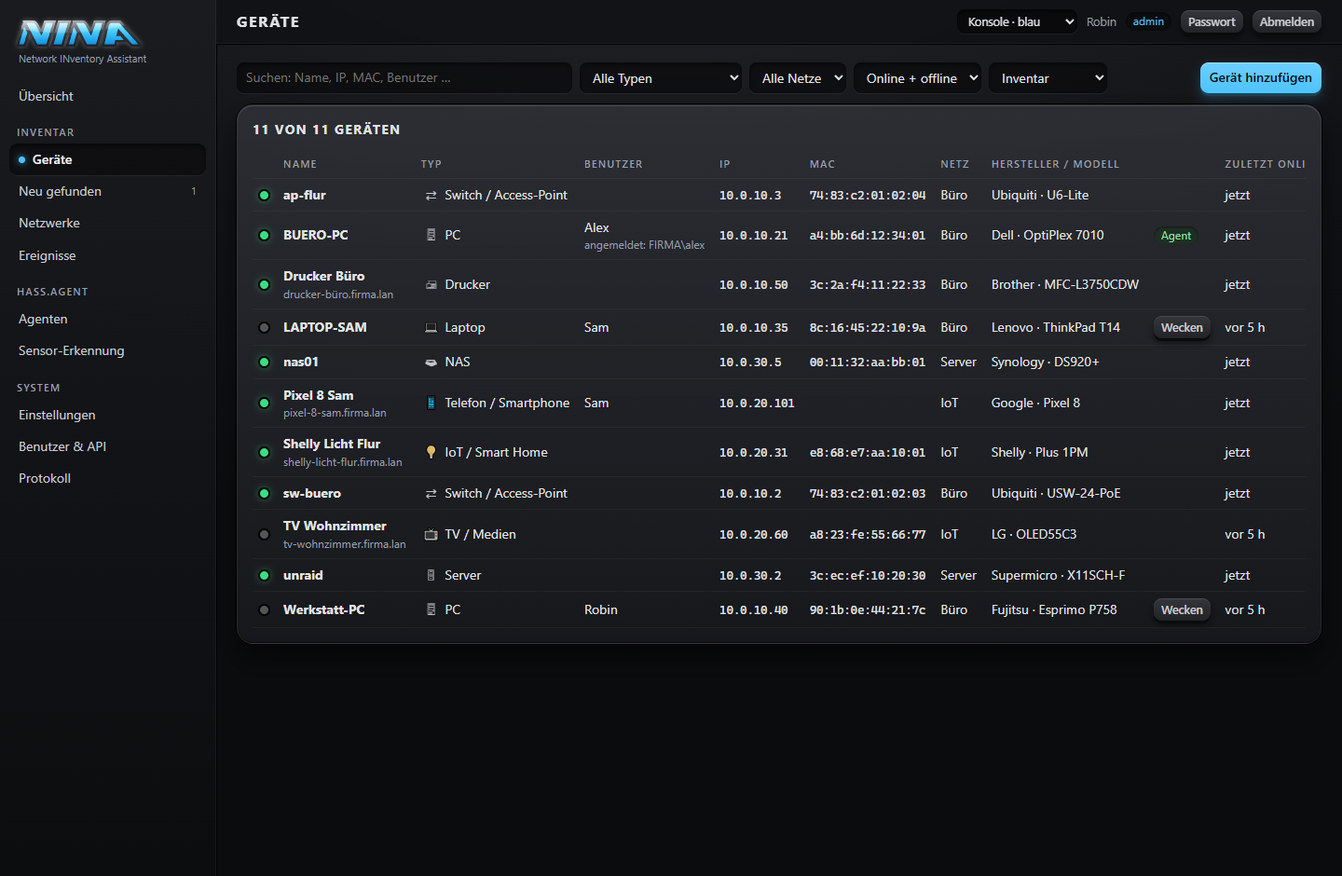
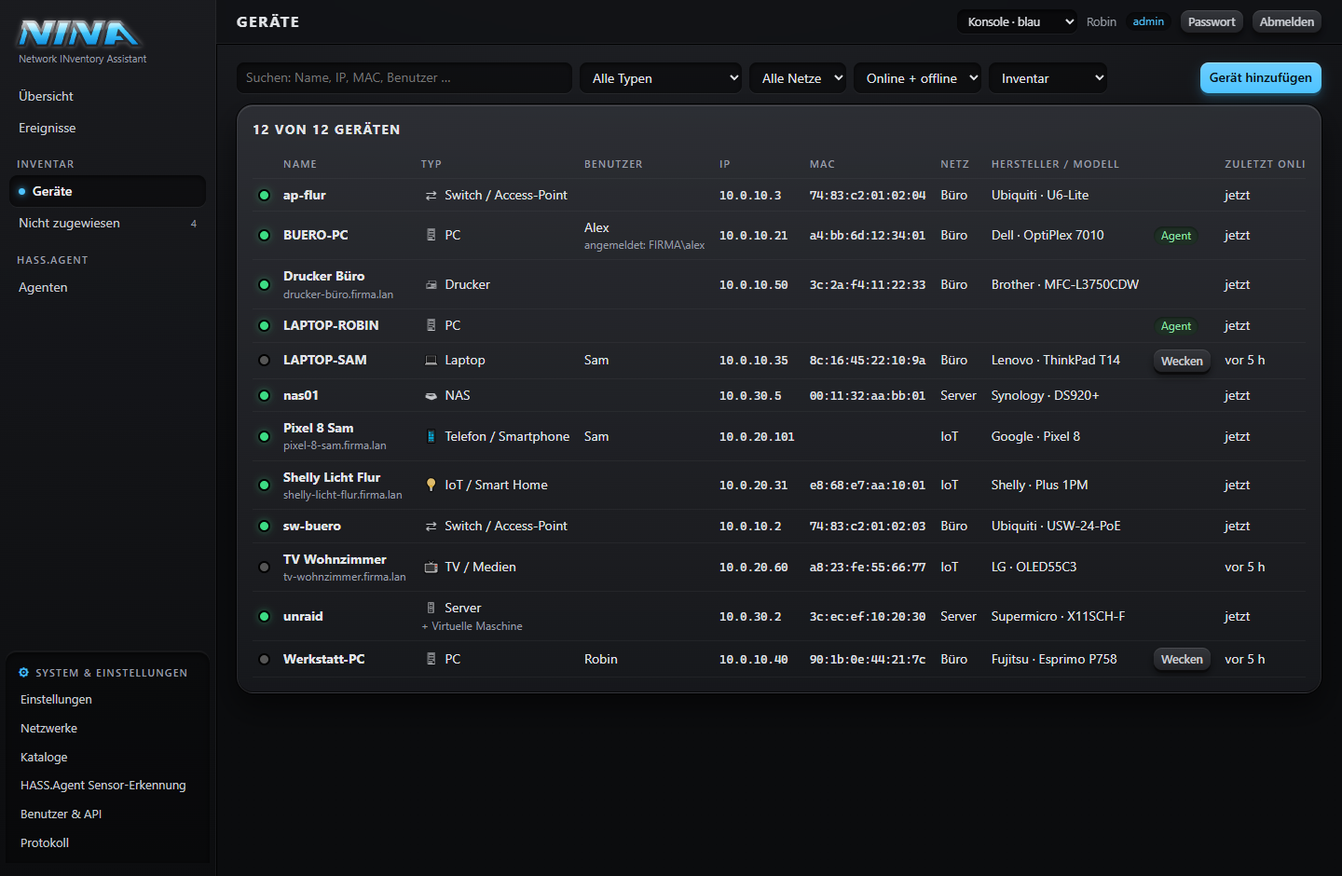
1.4.0: menu regrouped (inventory: devices + unassigned), unassigned list of all findings incl. agents without device, system section set apart

diff --git a/app/web/inventar.js b/app/web/inventar.js
@@ -1,4 +1,4 @@
-/* NINA – Ansichten: Übersicht, Geräte, Gerät, Neu gefunden, Netzwerke, Ereignisse */
+/* NINA – Ansichten: Übersicht, Geräte, Gerät, Nicht zugewiesen, Netzwerke, Ereignisse */
 "use strict";
 
 const typSymbol = t => h("span", { class: "typ-symbol", title: typName(t) }, (META.typen.find(x => x[0] === t) || [])[2] || "◇");
@@ -18,7 +18,7 @@ ANSICHT.uebersicht = { titel: "Übersicht", async zeigen(main) {
       h("div", { class: "kacheln" },
         kachel(u.geraete, "Geräte im Inventar", "#geraete"),
         kachel(u.online, "davon online", "#geraete?filter=online", "ok"),
-        kachel(u.neu, "neu gefunden", "#neu", u.neu ? "warn" : null),
+        kachel(u.neu + (u.agenten_frei || 0), "nicht zugewiesen", "#neu", u.neu + (u.agenten_frei || 0) ? "warn" : null),
         kachel(`${u.agenten_online}/${u.agenten}`, "HASS.Agents online", "#agenten"),
         kachel(u.netze.length, "Netzwerke", "#netzwerke")),
       h("div", { class: "zwei" },
@@ -240,27 +240,56 @@ async function schnittstelleDialog(g, x = null) {
   if (await dialog(x ? "Schnittstelle bearbeiten" : "Schnittstelle hinzufügen", f, kn)) zeige();
 }
 
-// ------------------------------------------------------------------ Neu gefunden
-ANSICHT.neu = { titel: "Neu gefunden", async zeigen(main) {
+// ------------------------------------------------------------------ Nicht zugewiesen
+const QUELLE_NAMEN = { scan: "Netzwerk-Scan", opnsense: "OPNsense", agent: "HASS.Agent", manuell: "von Hand" };
+let QUELLE_FILTER = "";
+ANSICHT.neu = { titel: "Nicht zugewiesen", async zeigen(main) {
   const laden = async () => {
-    const liste = (await api("GET", "/api/geraete?status=neu")).geraete;
-    const alleG = (await api("GET", "/api/geraete?status=aktiv")).geraete;
-    ZAHLEN.neu = liste.length;
+    const [n, a, akt] = await Promise.all([api("GET", "/api/geraete?status=neu"), api("GET", "/api/agenten"), api("GET", "/api/geraete?status=aktiv")]);
+    // Geräte-Funde (Scan, OPNsense, Agent mit eigenem Fund) + Agenten ganz ohne Gerät
+    const zeilen = [
+      ...n.geraete.map(g => ({ art: "geraet", g, quelle: g.agent ? "agent" : (g.quelle || "scan") })),
+      ...a.agenten.filter(x => !x.geraet_id).map(x => ({ art: "agent", a: x, quelle: "agent" })),
+    ];
+    ZAHLEN.neu = zeilen.length;
+    const anzahl = q => zeilen.filter(z => z.quelle === q).length;
+    const liste = zeilen.filter(z => !QUELLE_FILTER || z.quelle === QUELLE_FILTER);
+    const uebernehmen = async z => {
+      let g = z.g;
+      if (z.art === "agent") {      // Agent ohne Gerät: erst einen Fund anlegen, dann wie gewohnt übernehmen
+        await versuch(() => api("POST", `/api/agenten/${z.a.id}/verknuepfen`, { neu: true }));
+        const frisch = await api("GET", "/api/agenten");
+        const gid = (frisch.agenten.find(x => x.id === z.a.id) || {}).geraet_id;
+        if (!gid) return;
+        g = await api("GET", `/api/geraete/${gid}`);
+      }
+      if (await uebernehmenDialog(g)) laden(); else laden();
+    };
     leeren(main,
-      h("p", { class: "leise" }, "Vom Scan, der OPNsense oder einem HASS.Agent gefundene Geräte – sie kommen nie automatisch ins Inventar. Beim Übernehmen lassen sich doppelte Funde (z. B. Scan + Agent desselben PCs) gleich zusammenführen. Ignorierte tauchen nicht wieder auf."),
-      h("div", { class: "karte" }, h("h2", {}, `${liste.length} neue Geräte`, liste.length && darf("operator") ? h("span", { class: "rechts" },
-        h("button", { class: "klein", onclick: async () => { if (!(await bestaetigen(`Alle ${liste.length} ignorieren?`, "Alle ignorieren"))) return;
-          for (const g of liste) await api("POST", `/api/geraete/${g.id}/status`, { status: "ignoriert" }); laden(); } }, "Alle ignorieren")) : null),
+      h("p", { class: "leise" }, "Alles, was Netzwerk-Scan, OPNsense oder ein HASS.Agent gefunden hat und noch nicht im Inventar ist. Ins Inventar kommt ein Fund nur über „Übernehmen“ – dabei lassen sich doppelte Funde (z. B. Scan + Agent desselben PCs) gleich zusammenführen. Ignorierte tauchen nicht wieder auf."),
+      h("div", { class: "leiste" }, h("div", { class: "tabs" }, [["", `Alle (${zeilen.length})`], ["scan", `Netzwerk-Scan (${anzahl("scan")})`],
+        ["opnsense", `OPNsense (${anzahl("opnsense")})`], ["agent", `HASS.Agent (${anzahl("agent")})`]].map(([k, t]) =>
+        h("button", { class: k === QUELLE_FILTER ? "an" : "", onclick: () => { QUELLE_FILTER = k; laden(); } }, t))),
+        h("span", { class: "rechts" }, h("a", { href: "#einstellungen?tab=zeitplan" }, h("button", { class: "klein" }, "Zeitplan der Suche")))),
+      h("div", { class: "karte" }, h("h2", {}, `${liste.length} nicht zugewiesen`, liste.some(z => z.art === "geraet") && darf("operator") ? h("span", { class: "rechts" },
+        h("button", { class: "klein", onclick: async () => { const gs = liste.filter(z => z.art === "geraet"); if (!(await bestaetigen(`Alle ${gs.length} angezeigten Funde ignorieren?`, "Ignorieren"))) return;
+          for (const z of gs) await api("POST", `/api/geraete/${z.g.id}/status`, { status: "ignoriert" }); laden(); } }, "Alle ignorieren")) : null),
         tabelle([
-          { t: "", w: g => punkt(g.online ? "ok" : "") },
-          { t: "Name", w: g => h("b", {}, g.name) }, { t: "Vermutung", w: g => h("span", {}, typSymbol(g.typ), " ", g.typ_name) },
-          { t: "IP", w: g => h("span", { class: "mono" }, g.ip) }, { t: "MAC", w: g => h("span", { class: "mono" }, g.mac) },
-          { t: "Hersteller", w: g => g.hersteller }, { t: "Netz", w: g => g.netzwerk }, { t: "Quelle", w: g => g.agent ? "HASS.Agent" : g.quelle },
-          { t: "", w: g => darf("operator") ? h("div", { class: "knopfreihe" },
-            h("button", { class: "klein p", onclick: () => uebernehmenDialog(g).then(r => r && laden()) }, "Übernehmen"),
-            h("button", { class: "klein", onclick: () => zusammenDialog(g, alleG).then(r => r && laden()) }, "Zusammenführen"),
-            h("button", { class: "klein", onclick: async () => { await api("POST", `/api/geraete/${g.id}/status`, { status: "ignoriert" }); laden(); } }, "Ignorieren")) : null },
-        ], liste, { leer: "Nichts Neues – alles im Inventar.", klick: g => (location.hash = `#geraet?id=${g.id}`) })));
+          { t: "", w: z => punkt((z.g || z.a).online ? "ok" : "") },
+          { t: "Name", w: z => h("div", { class: "zwei-zeilen" }, h("b", {}, z.art === "agent" ? z.a.name : z.g.name),
+              z.art === "agent" ? h("small", {}, `HASS.Agent ${z.a.version || ""} · ${z.a.modell || ""}`) : z.g.hostname && z.g.hostname.split(".")[0].toLowerCase() !== z.g.name.toLowerCase() ? h("small", {}, z.g.hostname) : null) },
+          { t: "Vermutung", w: z => z.art === "agent" ? h("span", {}, typSymbol("pc"), " ", typName("pc")) : h("span", {}, typSymbol(z.g.typ), " ", z.g.typ_name) },
+          { t: "IP", w: z => z.g ? h("span", { class: "mono" }, z.g.ip) : "" }, { t: "MAC", w: z => z.g ? h("span", { class: "mono" }, z.g.mac) : "" },
+          { t: "Hersteller", w: z => z.g ? z.g.hersteller : "" }, { t: "Netz", w: z => z.g ? z.g.netzwerk : "" },
+          { t: "Quelle", w: z => marke(QUELLE_NAMEN[z.quelle] || z.quelle, z.quelle === "agent" ? "akz" : "") },
+          { t: "Gefunden", w: z => vorZeit(z.g ? z.g.geaendert : z.a.erstellt) },
+          { t: "", w: z => darf("operator") ? h("div", { class: "knopfreihe" },
+            h("button", { class: "klein p", onclick: () => uebernehmen(z) }, "Übernehmen"),
+            z.g ? h("button", { class: "klein", onclick: () => zusammenDialog(z.g, akt.geraete).then(r => r && laden()) }, "Zu Gerät hinzufügen") : null,
+            z.g ? h("button", { class: "klein", onclick: async () => { await api("POST", `/api/geraete/${z.g.id}/status`, { status: "ignoriert" }); laden(); } }, "Ignorieren")
+              : darf("admin") ? h("button", { class: "klein gefahr", onclick: async () => { if (await bestaetigen(`Agent „${z.a.name}“ entfernen? Meldet er sich wieder, taucht er hier neu auf.`, "Entfernen")) { await api("DELETE", `/api/agenten/${z.a.id}`); laden(); } } }, "Entfernen") : null) : null },
+        ], liste, { leer: zeilen.length ? "Für diese Quelle gibt es nichts Neues." : "Nichts Neues – alles im Inventar.",
+          klick: z => z.g && (location.hash = `#geraet?id=${z.g.id}`) })));
   };
   await laden();
   alle(30, laden);
@@ -282,7 +311,7 @@ async function uebernehmenDialog(g) {
         ? h("input", { type: "checkbox", checked: wahl.has(x.id), disabled: !!ziel, onchange: e => { e.target.checked ? wahl.add(x.id) : wahl.delete(x.id); } })
         : h("input", { type: "radio", name: "ziel", checked: ziel === x.id, title: "stattdessen in dieses Inventar-Gerät übernehmen",
             onclick: e => { ziel = ziel === x.id ? null : x.id; e.target.checked = ziel === x.id; zeichne(); } }) },
-    { t: "Gerät", w: x => h("div", { class: "zwei-zeilen" }, h("b", {}, x.name), h("small", {}, x.status === "neu" ? "neu gefunden · " + quelle(x) : "im Inventar")) },
+    { t: "Gerät", w: x => h("div", { class: "zwei-zeilen" }, h("b", {}, x.name), h("small", {}, x.status === "neu" ? "nicht zugewiesen · " + quelle(x) : "im Inventar")) },
     { t: "Typ", w: x => h("span", {}, typSymbol(x.typ), " ", x.typ_name) },
     { t: "IP / MAC", w: x => h("div", { class: "zwei-zeilen mono" }, x.ip, h("small", {}, x.mac)) },
     { t: "Passt wegen", w: x => x.gruende.length ? x.gruende.map(r => marke(r, "ok")) : h("span", { class: "leise" }, "–") },
@@ -307,7 +336,7 @@ async function uebernehmenDialog(g) {
 async function zusammenDialog(g, alleG) {
   const f = h("div", {}, h("p", { class: "leise" }, `Die Schnittstellen von „${g.name}“ (${g.ip} ${g.mac}) wandern zum gewählten Gerät, „${g.name}“ wird entfernt.`),
     feld("Ziel-Gerät", auswahl("ziel", alleG.map(x => [x.id, `${x.name}${x.ip ? " – " + x.ip : ""}`]), "")));
-  return dialog("Zusammenführen", f, [["Abbrechen", null], ["Zusammenführen", () => versuch(() => api("POST", `/api/geraete/${g.id}/zusammenfuehren`, lesenForm(f)), "Zusammengeführt"), "p"]]);
+  return dialog("Zu einem Inventar-Gerät hinzufügen", f, [["Abbrechen", null], ["Zusammenführen", () => versuch(() => api("POST", `/api/geraete/${g.id}/zusammenfuehren`, lesenForm(f)), "Zusammengeführt"), "p"]]);
 }
 
 // ------------------------------------------------------------------ Netzwerke

diff --git a/app/web/verwaltung.js b/app/web/verwaltung.js
@@ -5,26 +5,28 @@
 ANSICHT.agenten = { titel: "HASS.Agent", async zeigen(main) {
   const laden = async () => {
     const d = await api("GET", "/api/agenten");
+    const offen = d.agenten.filter(a => !a.geraet_id || a.geraet_status !== "aktiv").length;
+    d.agenten = d.agenten.filter(a => a.geraet_id && a.geraet_status === "aktiv");   // nicht zugewiesene stehen unter Inventar › Nicht zugewiesen
     const m = d.mqtt;
     leeren(main,
       h("div", { class: "karte" }, h("h2", {}, "MQTT-Verbindung", m.verbunden ? marke("verbunden", "ok") : m.aktiv ? marke("getrennt", "bad") : marke("aus"),
         h("span", { class: "rechts" }, darf("admin") ? h("a", { href: "#einstellungen?tab=mqtt" }, h("button", { class: "klein" }, "Einstellungen")) : null)),
         h("p", { class: "leise", style: { margin: 0 } }, m.aktiv ? `${m.host} · ${m.status} · ${m.nachrichten} Nachrichten empfangen`
           : "Noch nicht eingerichtet. HASS.Agent schickt seine Sensoren und Befehle an den MQTT-Broker von Home Assistant (z. B. das Mosquitto-Add-on). NINA hört dort mit – unter Einstellungen › MQTT den Broker eintragen.")),
-      h("div", { class: "karte" }, h("h2", {}, `${d.agenten.length} Agenten`),
+      offen ? h("div", { class: "karte" }, h("p", { style: { margin: 0 } }, `${offen} ${offen === 1 ? "Agent ist" : "Agenten sind"} noch keinem Gerät im Inventar zugewiesen – `,
+        h("a", { href: "#neu" }, "unter „Nicht zugewiesen“ übernehmen"), ".")) : null,
+      h("div", { class: "karte" }, h("h2", {}, `${d.agenten.length} zugewiesene Agenten`),
         tabelle([
           { t: "", w: a => punkt(a.online ? "ok" : "") },
           { t: "Name", w: a => h("div", { class: "zwei-zeilen" }, h("b", {}, a.name), h("small", {}, a.kennung)) },
           { t: "Version", w: a => a.version }, { t: "System", w: a => a.modell },
           { t: "Werte / Befehle", w: a => `${a.werte} / ${a.befehle}`, z: 1 },
-          { t: "Gerät", w: a => a.geraet_id ? h("span", {}, h("a", { href: `#geraet?id=${a.geraet_id}` }, a.geraet), " ", a.geraet_status === "neu" ? marke("neu", "warn") : null)
-              : marke("nicht verknüpft", "warn") },
+          { t: "Gerät", w: a => h("a", { href: `#geraet?id=${a.geraet_id}` }, a.geraet) },
           { t: "Zuletzt", w: a => vorZeit(a.zuletzt) },
           { t: "", w: a => darf("admin") ? h("div", { class: "knopfreihe" },
-            a.geraet_status === "neu" ? h("button", { class: "klein p", onclick: async () => { const g = await api("GET", `/api/geraete/${a.geraet_id}`); if (await uebernehmenDialog(g)) laden(); } }, "Übernehmen") : null,
             h("button", { class: "klein", onclick: () => verknuepfenDialog(a).then(r => r && laden()) }, "Verknüpfen"),
             h("button", { class: "klein gefahr", onclick: async () => { if (await bestaetigen(`Agent „${a.name}“ entfernen? Meldet er sich wieder, taucht er neu auf.`, "Entfernen")) { await versuch(() => api("DELETE", `/api/agenten/${a.id}`), "Entfernt"); laden(); } } }, "Entfernen")) : null },
-        ], d.agenten, { leer: "Noch kein HASS.Agent gefunden.", klick: a => a.geraet_id && (location.hash = `#geraet?id=${a.geraet_id}`) })));
+        ], d.agenten, { leer: offen ? "Noch kein Agent zugewiesen." : "Noch kein HASS.Agent gefunden.", klick: a => a.geraet_id && (location.hash = `#geraet?id=${a.geraet_id}`) })));
   };
   await laden();
   alle(15, laden);
@@ -40,7 +42,7 @@ async function verknuepfenDialog(a) {
 }
 
 // ------------------------------------------------------------------ Sensor-Erkennung
-ANSICHT.muster = { titel: "Sensor-Erkennung", async zeigen(main) {
+ANSICHT.muster = { titel: "HASS.Agent Sensor-Erkennung", async zeigen(main) {
   const [d] = await Promise.all([api("GET", "/api/muster"), mdiLaden().catch(() => {})]);
   const ziel = new URLSearchParams(location.hash.split("?")[1] || "").get("ziel") || "sensor";
   const liste = d.muster.filter(m => m.ziel === ziel);
@@ -117,11 +119,11 @@ function allgemeinTab(a) {
   const f = h("div", {},
     h("div", { class: "raster" },
       feld("Name dieser Installation", eingabe("name", a.name), "erscheint in Home Assistant"),
-      feld("Neu gefundene Geräte", auswahl("neue_geraete", [["pruefen", "Unter „Neu gefunden“ zum Prüfen"], ["nein", "Nicht anlegen (nur Bekannte aktualisieren)"]], a.neue_geraete), "Ins Inventar kommt ein Gerät nur, wenn es übernommen wird"),
+      feld("Neu gefundene Geräte", auswahl("neue_geraete", [["pruefen", "Unter „Nicht zugewiesen“ aufführen"], ["nein", "Nicht anlegen (nur Bekannte aktualisieren)"]], a.neue_geraete), "Ins Inventar kommt ein Gerät nur, wenn es übernommen wird"),
       feld("Überwachte Geräte anpingen alle … s", eingabe("ueberwachen_intervall", a.ueberwachen_intervall, { type: "number", min: 15 })),
       feld("WoL-Port", auswahl("wol_port", [["9", "9 (Standard)"], ["7", "7"]], a.wol_port)),
       feld("Ereignisse aufheben (Tage)", eingabe("ereignisse_tage", a.ereignisse_tage, { type: "number", min: 7 }))),
-    haken("Neue HASS.Agents unter „Neu gefunden“ aufführen", a.agent_geraete_anlegen, "Sonst nur verknüpfen, wenn ein Gerät mit gleichem Namen im Inventar ist", "agent_geraete_anlegen").el);
+    haken("Für neue HASS.Agents gleich einen Fund anlegen", a.agent_geraete_anlegen, "Sonst steht der Agent ohne Gerät unter „Nicht zugewiesen“ (Übernehmen legt es dann an); mit gleichnamigem Inventar-Gerät wird immer verknüpft", "agent_geraete_anlegen").el);
   return h("div", {}, h("div", { class: "karte" }, h("h2", {}, "Allgemein"), f),
     h("div", { class: "karte" }, h("h2", {}, "Zusatzfelder für Geräte"), h("p", { class: "leise klein-t" }, "Eigene Angaben je Gerät (z. B. Garantie bis, Kostenstelle, Lieferant) – ohne Datenbank-Umbau, gespeichert im Feld „extra“ und auch an Home Assistant übergeben."), zf),
     h("div", { class: "leiste" }, h("span", { class: "rechts" }, h("button", { class: "p", onclick: async () => {
@@ -309,7 +311,7 @@ function zeitplanTab() {
         "Ping/nmap-Scan der eingetragenen Netze (je Netz eigenes Intervall). Das Zeitfenster gilt für alle Netze."),
       karte("opnsense", ops, "ARP-Tabelle und DHCP-Leases der OPNsense über alle VLANs – findet auch Geräte in fremden Netzen samt MAC."),
       karte("agent", h("div", {}, ag, agExtra), "HASS.Agent-Werte kommen laufend per MQTT. Der Abgleich verknüpft Agenten mit Geräten, übernimmt gemeldete Adressen und setzt stumme Agenten offline."),
-      h("div", { class: "leiste" }, h("span", { class: "leise klein-t" }, "Neue Funde aus allen Läufen landen unter „Neu gefunden“."),
+      h("div", { class: "leiste" }, h("span", { class: "leise klein-t" }, "Neue Funde aus allen Läufen landen unter Inventar › Nicht zugewiesen."),
         h("span", { class: "rechts" }, darf("admin") ? h("button", { class: "p", onclick: async () => {
           await versuch(() => api("POST", "/api/zeitplan", { scan: scan.werte(), opnsense: ops.werte(), agent: { ...ag.werte(), ...lesenForm(agExtra) }, netze: [...netzWerte.values()] }), "Zeitplan gespeichert");
           laden();

diff --git a/app/web/app.js b/app/web/app.js
@@ -150,12 +150,13 @@ function kopieren(text) {
 
 // ------------------------------------------------------------------ Navigation / Rahmen
 const NAVI = [
-  ["", [["uebersicht", "Übersicht"]]],
-  ["Inventar", [["geraete", "Geräte"], ["neu", "Neu gefunden", null, null, "neu"], ["netzwerke", "Netzwerke"], ["kataloge", "Kataloge"], ["ereignisse", "Ereignisse"]]],
-  ["HASS.Agent", [["agenten", "Agenten"], ["muster", "Sensor-Erkennung"]]],
-  ["System", [["einstellungen", "Einstellungen", null, "admin"], ["benutzer", "Benutzer & API", null, "admin"],
-              ["protokoll", "Protokoll", null, "operator"]]],
+  ["", [["uebersicht", "Übersicht"], ["ereignisse", "Ereignisse"]]],
+  ["Inventar", [["geraete", "Geräte"], ["neu", "Nicht zugewiesen", null, null, "neu"]]],
+  ["HASS.Agent", [["agenten", "Agenten"]]],
 ];
+// abgesetzter Einstellungsbereich unten in der Seitenleiste
+const NAVI_SYSTEM = [["einstellungen", "Einstellungen", null, "admin"], ["netzwerke", "Netzwerke"], ["kataloge", "Kataloge"],
+  ["muster", "HASS.Agent Sensor-Erkennung"], ["benutzer", "Benutzer & API", null, "admin"], ["protokoll", "Protokoll", null, "operator"]];
 let ZAHLEN = {};
 let AKTUALISIEREN = null;   // Timer der aktuellen Ansicht
 
@@ -166,10 +167,14 @@ function rahmen() {
   const navi = h("aside", { id: "navi" },
     h("div", { class: "logo" }, h("img", { src: "/static/logo-kurz-dunkel.svg", alt: "NINA", class: "wortmarke nur-dunkel" }), h("img", { src: "/static/logo-kurz-hell.svg", alt: "NINA", class: "wortmarke nur-hell" }),
       h("small", {}, META.name !== "NINA" ? META.name : "Network INventory Assistant")),
-    NAVI.map(([gruppe, eintraege]) => [gruppe ? h("h4", {}, gruppe) : null,
-      eintraege.filter(([, , , rolle]) => !rolle || darf(rolle)).map(([k, t, , , zahl]) =>
-        h("a", { class: "nav" + (r.name === k || (k === "geraete" && r.name === "geraet") ? " an" : ""), href: "#" + k,
-          onclick: () => $("#navi").classList.remove("offen") }, t, zahl && ZAHLEN[zahl] ? h("span", { class: "zahl" }, ZAHLEN[zahl]) : null))]));
+    NAVI.map(([gruppe, eintraege]) => [gruppe ? h("h4", {}, gruppe) : null, eintraege.map(navLink)]),
+    h("div", { class: "navi-system" }, h("h4", {}, h("span", { class: "navi-system-symbol" }, "⚙"), "System & Einstellungen"),
+      NAVI_SYSTEM.map(navLink)));
+  function navLink([k, t, , rolle, zahl]) {
+    if (rolle && !darf(rolle)) return null;
+    return h("a", { class: "nav" + (r.name === k || (k === "geraete" && r.name === "geraet") ? " an" : ""), href: "#" + k,
+      onclick: () => $("#navi").classList.remove("offen") }, t, zahl && ZAHLEN[zahl] ? h("span", { class: "zahl" }, ZAHLEN[zahl]) : null);
+  }
   const oben = h("div", { class: "oben" },
     h("button", { class: "menu-knopf", onclick: () => $("#navi").classList.toggle("offen") }, "☰"),
     h("h1", { id: "titel" }, ""),
@@ -202,7 +207,7 @@ function alle(sekunden, fn) {
 window.addEventListener("hashchange", () => { if (ICH) zeige(); });
 
 async function zahlenLaden() {
-  try { const u = await api("GET", "/api/uebersicht"); ZAHLEN = { neu: u.neu }; } catch { /* egal */ }
+  try { const u = await api("GET", "/api/uebersicht"); ZAHLEN = { neu: u.neu + (u.agenten_frei || 0) }; } catch { /* egal */ }
 }
 
 async function start() {

diff --git a/app/web/ni.css b/app/web/ni.css
@@ -170,3 +170,12 @@ svg.mdi{fill:currentColor;flex:none}
 .icon-gewaehlt{display:flex;align-items:center;gap:10px;margin-top:6px;color:var(--akzent)}
 [data-stil=konsole] button.icon-kachel svg{color:#dfe3e8}
 [data-stil=konsole] button.icon-kachel.an svg{color:var(--akzent)}
+
+/* Seitenleiste: System & Einstellungen unten abgesetzt */
+aside{display:flex;flex-direction:column}
+.navi-system{margin-top:auto;padding:10px 6px 6px;border-top:1px solid var(--rand);background:color-mix(in srgb,var(--code) 70%,transparent);border-radius:12px 12px 0 0;margin-left:-4px;margin-right:-4px}
+.navi-system h4{display:flex;align-items:center;gap:6px;margin-top:2px!important}
+.navi-system-symbol{color:var(--akzent);font-size:13px}
+.navi-system a.nav{font-size:13px;padding:6px 10px}
+[data-stil=konsole] .navi-system{background:rgba(0,0,0,.32);box-shadow:inset 0 2px 6px rgba(0,0,0,.55),0 -1px 0 rgba(255,255,255,.04);border-top:1px solid rgba(255,255,255,.05)}
+.tab-wrap td .knopfreihe{flex-wrap:nowrap}

diff --git a/app/inventar.py b/app/inventar.py
@@ -413,6 +413,7 @@ def uebersicht(ich: dict = Depends(LESER)):
                 "neu": zahl(Geraet.status == "neu"), "ignoriert": zahl(Geraet.status == "ignoriert"),
                 "agenten": s.scalar(select(func.count(Agent.id))) or 0,
                 "agenten_online": s.scalar(select(func.count(Agent.id)).where(Agent.online.is_(True))) or 0,
+                "agenten_frei": s.scalar(select(func.count(Agent.id)).where(Agent.geraet_id.is_(None))) or 0,
                 "typen": [{"typ": k, "name": tn.get(k, k), "anzahl": v} for k, v in sorted(typen.items(), key=lambda x: -x[1])],
                 "netze": netze,
                 "ereignisse": [{"zeit": iso(e.zeit), "art": e.art, "text": e.text, "geraet_id": e.geraet_id, "geraet": n or ""} for e, n in ev]}

diff --git a/app/kern.py b/app/kern.py
@@ -21,7 +21,7 @@ from cryptography.fernet import Fernet, InvalidToken
 from sqlalchemy import create_engine, text
 from sqlalchemy.orm import Session, sessionmaker
 
-VERSION = "1.3.0"
+VERSION = "1.4.0"
 DATA = os.environ.get("NINA_DATA", "/config")
 KONFIG_DATEI = os.path.join(DATA, "nina.json")
 SCHLUESSEL_DATEI = os.path.join(DATA, "schluessel.key")

diff --git a/README.md b/README.md
@@ -10,9 +10,12 @@ Home-Assistant-Integration: [nina_ha_integration](https://github.com/SysriX/nina
 
 ![Geräteliste](docs/images/liste.png)
 ![Infokarte eines Rechners mit HASS.Agent und Wake-on-LAN](docs/images/geraet.png)
+![Nicht zugewiesene Funde aus Scan, OPNsense und HASS.Agent](docs/images/neu.png)
 *Beispieldaten*
 
-> **Stand 1.3.0:** Symbol-Auswahl mit Suche für Gerätetypen (Zeichen/Emoji für NINA und alle 7.188 Material Design Icons für Home Assistant, Suche auch mit deutschen Begriffen wie „drucker“ oder „wlan“), ebenso in der Sensor-Erkennung.
+> **Stand 1.4.0:** Menü neu gegliedert: Inventar = Geräte + **Nicht zugewiesen** (alle offenen Funde aus Scan, OPNsense und HASS.Agent, auch Agenten ohne Gerät, mit Filter nach Quelle); unter HASS.Agent nur noch zugewiesene Agenten; Einstellungen, Netzwerke, Kataloge, HASS.Agent Sensor-Erkennung, Benutzer & API und Protokoll im abgesetzten Bereich „System & Einstellungen“.
+>
+> **1.3.0:** Symbol-Auswahl mit Suche für Gerätetypen (Zeichen/Emoji für NINA und alle 7.188 Material Design Icons für Home Assistant, Suche auch mit deutschen Begriffen wie „drucker“ oder „wlan“), ebenso in der Sensor-Erkennung.
 >
 > **1.2.0:** Zeitplan (Einstellungen › Zeitplan) für Netzwerk-Scan, OPNsense-Abfrage und Agent-Abgleich: an/aus, Intervall, Zeitfenster (auch über Mitternacht) und Wochentage, Status mit letztem/nächstem Lauf und „Jetzt ausführen“. Kein neues Datenbank-Schema.
 >
@@ -27,7 +30,7 @@ Home-Assistant-Integration: [nina_ha_integration](https://github.com/SysriX/nina
 | **Geräte** | Name, **Haupttyp + weitere Typen** (z. B. Server + Virtuelle Maschine), **Benutzer** (wer daran arbeitet), angemeldeter Benutzer (vom HASS.Agent), Hersteller, Modell, Betriebssystem, Serien-/Inventarnummer, Standort, Raum-Kürzel für HA, Schlagwörter, Notizen, **eigene Zusatzfelder** |
 | **Schnittstellen** | je Gerät beliebig viele: IP, MAC, Hostname, MAC-Hersteller, Netz, primär, feste IP |
 | **Netzwerke** | mehrere Netze/VLANs, je Netz Scan an/aus, Intervall, Methode (nmap, Ping, nur OPNsense) und Wake-on-LAN-Weg |
-| **Automatisch finden** | nmap/Ping-Scan (im eigenen Netz mit MAC), **OPNsense** ARP-Tabelle + DHCP-Leases (ISC, Kea, Dnsmasq) für alle VLANs, **HASS.Agent**. Neue Geräte landen **immer** unter „Neu gefunden“; ins Inventar kommen sie nur durch **Übernehmen** – dabei schlägt NINA passende andere Funde vor (gleicher Name, IP oder MAC, z. B. Scan + HASS.Agent desselben PCs) und führt die ausgewählten zusammen. Typ wird aus Hersteller/Hostname geraten |
+| **Automatisch finden** | nmap/Ping-Scan (im eigenen Netz mit MAC), **OPNsense** ARP-Tabelle + DHCP-Leases (ISC, Kea, Dnsmasq) für alle VLANs, **HASS.Agent**. Neue Geräte landen **immer** unter „Nicht zugewiesen“; ins Inventar kommen sie nur durch **Übernehmen** – dabei schlägt NINA passende andere Funde vor (gleicher Name, IP oder MAC, z. B. Scan + HASS.Agent desselben PCs) und führt die ausgewählten zusammen. Typ wird aus Hersteller/Hostname geraten |
 | **Kataloge** | **Gerätetypen** frei pflegbar (Name, Symbol, HA-Symbol, Reihenfolge); **Hersteller und Modelle** (Modell mit Typ, z. B. Brother · HL-2040 · Drucker). Im Geräteformular stehen zum gewählten Typ passende Hersteller/Modelle oben; was neu eingetragen wird, kommt automatisch in den Katalog. Umbenennen im Katalog ändert die Angabe an allen Geräten |
 | **Zeitplan** | je Quelle einstellbar: **Netzwerk-Scan** (Intervall je Netz, gemeinsames Zeitfenster), **OPNsense-Abfrage** (ARP/DHCP), **Agent-Abgleich** (Agenten verknüpfen, Adressen übernehmen, stumme Agenten nach einstellbarer Zeit offline, optional um Neumeldung bitten) – mit Zeitfenster, Wochentagen, letztem/nächstem Lauf und „Jetzt ausführen“ |
 | **Online-Status** | aus Scans, ARP, Ping-Überwachung (einstellbar je Gerät) und HASS.Agent; Ereignis-Verlauf (neu, online/offline, IP geändert, WoL, Befehle) |
